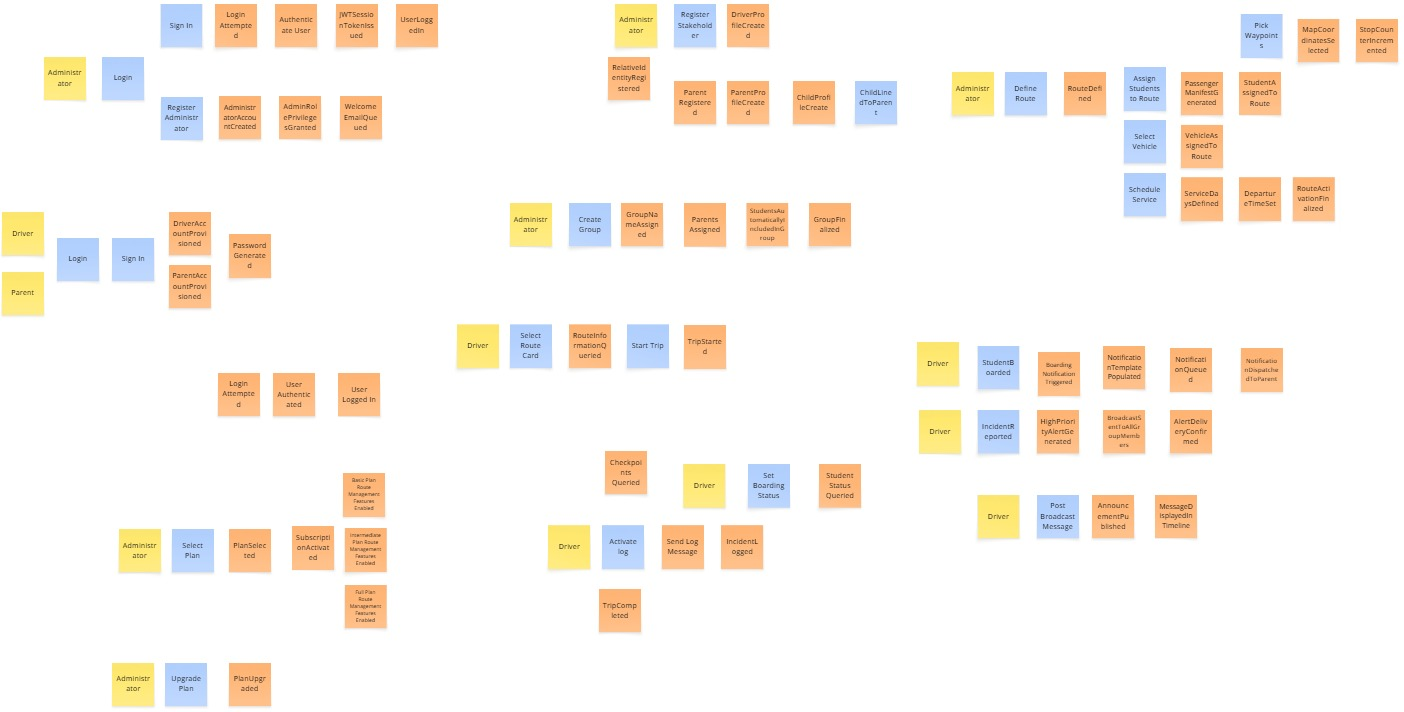
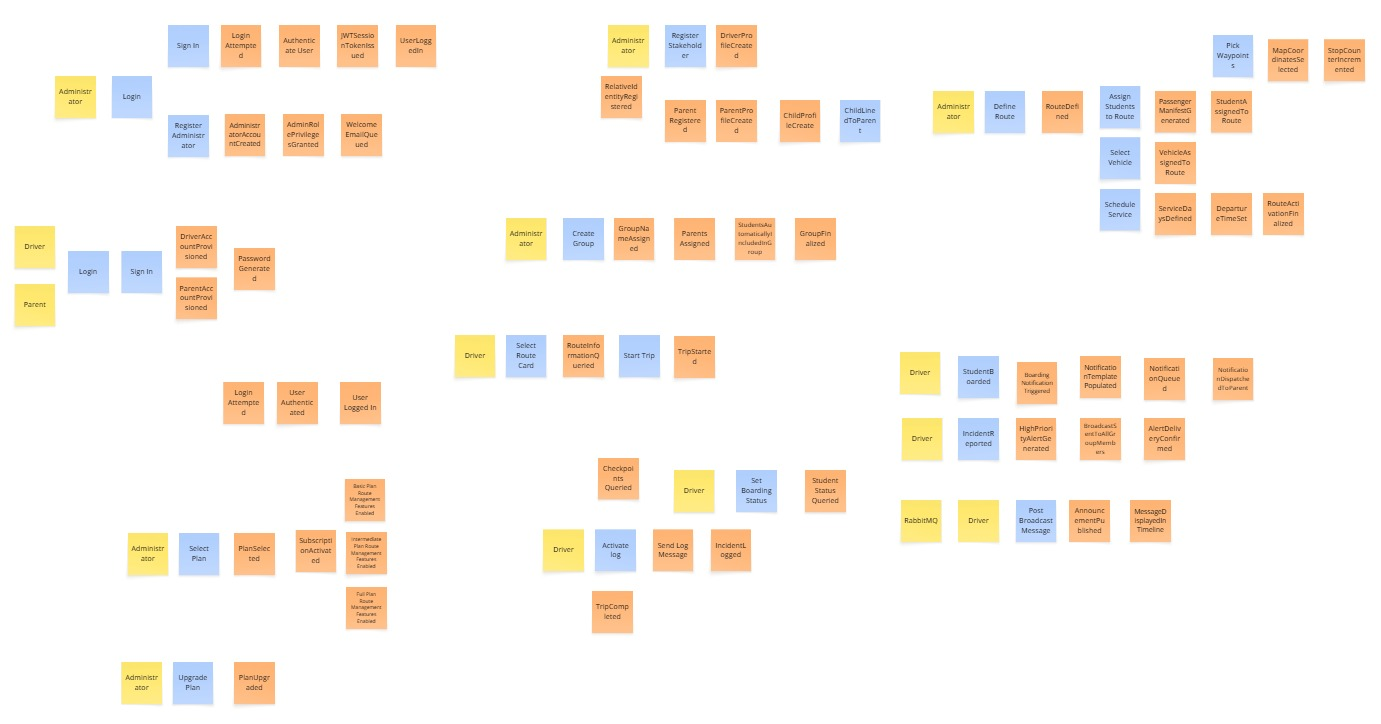
"docs: updated EventStorming section again"

diff --git a/README.md b/README.md
@@ -2627,9 +2627,30 @@ El *Product Backlog* es un artefacto vivo y emergente que centraliza y ordena to
 ## 2.5. Strategic-Level Domain-Driven Design
 
 ### 2.5.1. EventStorming
+ 
+Para el proceso de EventStorming a nivel de diseño utilizamos la herramienta **Miro** y seguimos cuatro pasos hasta llegar a la definición de los Bounded Contexts del sistema.
+ 
+**Paso 1: Identificación de Domain Events.** Trazamos los eventos sobre una línea de tiempo imaginaria de izquierda a derecha, redactados en pasado participio y utilizando el lenguaje ubicuo en inglés. Los eventos se representan con post-it de color anaranjado.
+ 
+**Paso 2: Identificación de Commands.** Sobre cada evento identificamos el comando que lo dispara, es decir, la intención explícita que provoca el hecho. Los comandos se representan con post-it de color azul.
+ 
+**Paso 3: Identificación de Actors.** Determinamos qué actor ejecuta cada comando, distinguiendo los tres roles del ecosistema (Administrador, Conductor y Padre de familia) de los procesos que dispara el propio sistema. Los actores se representan con post-it de color amarillo.
+ 
+**Paso 4: Agrupación en Bounded Contexts.** Finalmente agrupamos los eventos que se relacionan entre sí a través de los agregados y entidades que comparten, delimitando los Bounded Contexts del sistema.
+ 
+A lo largo del tablero utilizamos además cuatro tipos de post-it complementarios para enriquecer el modelo:
+ 
+| Color | Tipo | Descripción |
+|---|---|---|
+| Amarillo pálido | Agregado | Entidad o conjunto de entidades que agrupan el comportamiento y el estado sobre el que actúa un comando. |
+| Rosado | Sistema Externo | Servicio de terceros con el que el sistema se integra (pasarela de pago, proveedor de mapas, proveedor push, broker de mensajería). |
+| Morado | Política | Regla de negocio que conecta automáticamente un evento con el siguiente comando, sin intervención de un actor humano. |
+| Verde | Pantalla | Vista de la aplicación desde la que un actor dispara un comando. |
 
+<img src="resources\chapter-2\EventStorming\paleta-colores.png" width="1000">
+ 
 #### 2.5.1.1. Candidate Context Discovery
-
+ 
 En esta sesión aplicamos la técnica de *Candidate Context Discovery* para identificar y separar los posibles Bounded Contexts del sistema RouteGuard. La sesión se realizó en **Miro** con la participación de los cuatro integrantes del equipo y tuvo una duración de una hora y cuarenta minutos, dentro del límite de dos horas recomendado para esta técnica.
  
 Utilizamos las tres técnicas sugeridas de forma encadenada, ya que cada una responde una pregunta distinta. Con **start-with-simple** descompusimos la línea temporal en tres fases secuenciales —configuración y contratación, operación diaria, y cierre y postventa— para obtener un modelo manejable antes de intentar agrupar. Con **look-for-pivotal-events** identificamos los eventos que marcan cambios de estado entre partes distintas del proceso de negocio, que resultaron ser las costuras naturales del dominio. Finalmente, con **start-with-value** determinamos qué agrupaciones concentran el mayor valor para el negocio, contrastándolas con la propuesta de valor.
@@ -2638,10 +2659,11 @@ Los eventos pivote identificados fueron los siguientes:
  
 | Evento pivote | Cambio de estado que señala |
 |---|---|
-| `RouteActivationFinalized` | La ruta pasa de configuración a disponible para operar; separa la planificación de la ejecución. |
+| `RouteActivationFinalized` | La ruta pasa de configuración a disponible para operar; separa la planificación de la ejecución, y es el evento que directamente dispara `Start Trip` en Trip Execution & Monitoring. |
 | `TripStarted` | El plan de ruta pasa de intención a ejecución; separa la planificación del registro operativo. |
-| `BoardingQueuedOffline` | El registro de abordaje pasa de confirmado a provisional en el dispositivo; marca el punto donde el dominio deja de asumir conectividad continua. |
-| `BoardingSynchronized` | El registro pasa de provisional en el dispositivo a confirmado en el servidor. |
+| `LocationUpdated` | La posición del vehículo pasa de dato crudo transmitido por el dispositivo a telemetría persistida del viaje; abre el flujo de monitoreo en tiempo real y dispara la evaluación de geocerca en Notifications & Communication. |
+| `GeofenceBreached` | La telemetría cruda pasa a ser un hecho accionable: el vehículo penetra el radio de una parada, disparando la alerta hacia el padre. |
+| `GroupFinalized` | El grupo de estudiantes pasa de configuración a disponible para asignar; es el evento que, a través de la política `Export Group Manifest to Route Context`, dispara `Assign Students to Route` en Fleet & Route Management. |
 | `SubscriptionActivated` | El vínculo comercial pasa de solicitud a acceso habilitado; separa la capa comercial de la operativa. |
 | `TripCompleted` | La ejecución pasa a cierre; separa la operación diaria de la postventa. |
  
@@ -2651,205 +2673,48 @@ A continuación se presenta la evolución progresiva del EventStorm durante la s
  
 *Paso 1 — Domain Events:* los eventos trazados sobre la línea temporal, en pasado participio y con el lenguaje ubicuo en inglés.
  
-![Domain Events](resources/chapter-2/EventStorming/Events.jpg)
- 
+<img src="resources\chapter-2\EventStorming\Events.jpg" width="1000">
+
 *Paso 2 — Commands:* sobre cada evento se identificó el comando que lo dispara.
  
-![Commands](resources/chapter-2/EventStorming/Commands.jpg)
- 
+<img src="resources\chapter-2\EventStorming\Commands.jpg" width="1000">
+
 *Paso 3 — Actors:* se determinó qué actor ejecuta cada comando.
  
-![Actors](resources/chapter-2/EventStorming/Actors.jpg)
- 
+<img src="resources\chapter-2\EventStorming\Actors.jpg" width="1000">
+
 *Paso 4 — Agrupación:* aplicando los eventos pivote como líneas de corte, los eventos se agruparon por los agregados que comparten.
  
-![Bounded Context Decomposition](resources/chapter-2/EventStorming/Design-Level-Event-Storming.jpg)
- 
+<img src="resources\chapter-2\EventStorming\Design-Level-Event-Storming.jpg" width="1000">
+
 Este proceso nos llevó a definir los siguientes Bounded Contexts:
  
 | Bounded Context | Descripción | Eventos clave |
 |---|---|---|
-| **Identity & Access Management** | Gestiona el registro, la autenticación y el control de acceso por rol de los usuarios de la plataforma. | User Authenticated, Administrator Account Created, Driver Account Provisioned, Parent Account Provisioned |
-| **Subscription & Plan Management** | Administra los planes SaaS, procesa el cobro y habilita el acceso comercial a la plataforma. | Plan Selected, Payment Confirmed, Subscription Activated, Plan Upgraded, Quotas Increased |
-| **Fleet & Route Management** | Custodia el plan de recorrido vigente: paradas, vehículo, conductor y programación de servicio de cada ruta. | Route Defined, Waypoint Selected, Vehicle Assigned To Route, Service Days Defined, Route Activation Finalized |
-| **Stakeholder & Asset Management** | Registra a conductores y padres de familia, vincula estudiantes y organiza los grupos por ruta. | Driver Profile Created, Parent Profile Created, Child Linked To Parent, Group Finalized |
-| **Trip Execution & Monitoring** | Registra la ejecución real del viaje diario, incluyendo el registro de abordaje con soporte de sincronización *offline*. | Trip Started, Boarding Opened, Student Boarded, Boarding Queued Offline, Boarding Synchronized, Incident Reported, Trip Completed |
-| **Notifications & Communication** | Traduce los eventos del dominio en notificaciones para los padres de familia, incluyendo alertas de alta prioridad y avisos del conductor. | Notification Dispatched, Panic Alert Triggered, Announcement Published |
+| **Identity & Access Management** | Gestiona el registro, la autenticación y el control de acceso por rol de los usuarios de la plataforma. | Login Accepted, User Authenticated, JWT Session Token Issued, User Logged In, Administrator Account Created, Admin Role Privileges Granted, Driver Account Provisioned, Parent Account Provisioned, Password Generated |
+| **Subscription & Plan Management** | Administra los planes SaaS, procesa el cobro a través de la pasarela de pago y habilita el acceso comercial a la plataforma. | Plan Selected, Payment Confirmed, Subscription Activated, Plan Features Enabled, Plan Upgraded, Quotas Increased |
+| **Fleet & Route Management** | Custodia el plan de recorrido vigente: paradas, vehículo, conductor y programación de servicio de cada ruta. | Route Defined, Waypoint Selected, Stop Count Updated, Student Assigned To Route, Passenger Manifest Generated, Vehicle Assigned To Route, Service Days Defined, Route Activation Finalized |
+| **Stakeholder & Asset Management** | Registra a conductores y padres de familia, vincula estudiantes y organiza los grupos por ruta. | Driver Profile Created, Parent Profile Created, Child Profile Created, Child Linked To Parent, Group Name Assigned, Parents Assigned To Group, Students Included In Group, Group Finalized |
+| **Trip Execution & Monitoring** | Registra la ejecución real del viaje diario, incluyendo el registro de abordaje con soporte *offline* (US-06/TS-02), y la transmisión de la ubicación GPS en tiempo real del vehículo. | Trip Started, Boarding Opened, Student Boarded, Student Dropped Off, Location Updated, Incident Reported, Trip Completed, Trip Archived |
+| **Notifications & Communication** | Consume los eventos del viaje, evalúa la penetración de geocercas y traduce los eventos del dominio en notificaciones push para los padres de familia. | Notification Created, Notification Queued, Notification Dispatched, High Priority Alert Created, Geofence Breached, Announcement Published, Notification Sent |
  
-Aplicando finalmente *start-with-value*, clasificamos los contextos según su aporte estratégico. **Trip Execution & Monitoring** constituye el *Core Domain*: es el contexto donde RouteGuard concentra su ventaja competitiva, al garantizar que ningún registro de abordaje se pierda incluso sin conectividad. **Fleet & Route Management**, **Stakeholder & Asset Management** y **Notifications & Communication** son *Supporting Subdomains*: indispensables para el negocio pero no diferenciadores; Notifications & Communication se extiende sobre el contexto heredado con la integración de un proveedor de mensajería push (FCM), para que los eventos del viaje lleguen al dispositivo del padre sin que este tenga que abrir la app. **Identity & Access Management** y **Subscription & Plan Management** son *Generic Subdomains*, problemas ya resueltos por la industria en los que se prioriza la reutilización.
+Aplicando finalmente *start-with-value*, clasificamos los contextos según su aporte estratégico. **Trip Execution & Monitoring** constituye el *Core Domain*: es el contexto donde RouteGuard concentra su ventaja competitiva, al garantizar tanto el registro de abordaje sin pérdida de datos ante la falta de conectividad como el monitoreo en tiempo real del trayecto. **Fleet & Route Management**, **Stakeholder & Asset Management** y **Notifications & Communication** son *Supporting Subdomains*: indispensables para el negocio pero no diferenciadores. **Identity & Access Management** y **Subscription & Plan Management** son *Generic Subdomains*, problemas ya resueltos por la industria en los que se prioriza la reutilización.
  
-La capacidad que distingue a RouteGuard es la resiliencia ante la falta de conectividad dentro de Trip Execution & Monitoring, y es ahí donde se concentra el esfuerzo de diseño táctico en las siguientes secciones.
-
-#### 2.5.1.2. Domain Message Flows Modeling
-
-El *Domain Message Flow Modelling* es una técnica que permite representar cómo fluyen los mensajes de dominio —*commands*, *events* y *queries*— entre los distintos Bounded Contexts del sistema. Su propósito es clarificar las interacciones, dependencias y responsabilidades de cada contexto al resolver un caso concreto del negocio.
+La capacidad que distingue a RouteGuard es la combinación de resiliencia ante la falta de conectividad con monitoreo en tiempo real dentro de Trip Execution & Monitoring, y es ahí donde se concentra el mayor esfuerzo de diseño táctico en las siguientes secciones.
  
-Para cada escenario se documenta la secuencia numerada de mensajes, que es la que se representa en el diagrama: los comandos en azul, los eventos en naranja y las consultas en verde, con los contextos dibujados como nubes y los actores como participantes externos.
+**Conexiones confirmadas entre Bounded Contexts**
  
-**Escenario 01: Conformación del grupo de estudiantes y asignación a la ruta**
+| # | Origen | Evento | Política | Destino | Comando / Evento |
+|---|---|---|---|---|---|
+| 1 | Stakeholder & Asset Management | `Group Finalized` | `Export Group Manifest to Route Context` | Fleet & Route Management | `Assign Students to Route` |
+| 2 | Fleet & Route Management | `Route Activation Finalized` | — | Trip Execution & Monitoring | `Start Trip` |
+| 3 | Trip Execution & Monitoring | `Student Boarded` | — | Notifications & Communication | `Student Boarded` (consumido) |
+| 4 | Trip Execution & Monitoring | `Incident Reported` | — | Notifications & Communication | `Incident Reported` (consumido) |
+| 5 | Trip Execution & Monitoring | `Location Updated` | *(evaluación de geocerca)* | Notifications & Communication | `Geofence Breached` |
  
-| # | Tipo | Mensaje | Origen | Destino |
-|---|---|---|---|---|
-| 1 | Command | Crear grupo de estudiantes | Administrador | Stakeholder & Asset Management |
-| 2 | Command | Asignar padres e incluir hijos vinculados al grupo | Administrador | Stakeholder & Asset Management |
-| 3 | Command | Finalizar grupo | Administrador | Stakeholder & Asset Management |
-| 4 | Event | Group Finalized | Stakeholder & Asset Management | Stakeholder & Asset Management |
-| 5 | Query | Exportar manifiesto del grupo al contexto de ruta | Stakeholder & Asset Management | Fleet & Route Management |
-| 6 | Command | Asignar estudiantes a la ruta | Administrador | Fleet & Route Management |
-| 7 | Event | Passenger Manifest Generated | Fleet & Route Management | Fleet & Route Management |
+**Identity & Access Management** se conecta de forma transversal con los cinco contextos restantes a través de `User Authenticated`/`JWT Session Token Issued`, pero esta no es una política de negocio sino una dependencia de identidad.
  
-![Escenario 01: Conformación de grupo y asignación a ruta](resources/chapter-2/Domain-Message-Flows/escenario-01-grupo-ruta.png)
- 
-La nómina de estudiantes que puede asignarse a una ruta proviene del grupo ya finalizado en Stakeholder & Asset Management, consultado en el paso 5.
- 
-**Escenario 02: Ejecución del viaje con abordaje offline y notificación**
- 
-| # | Tipo | Mensaje | Origen | Destino |
-|---|---|---|---|---|
-| 1 | Command | Iniciar viaje | Conductor | Trip Execution & Monitoring |
-| 2 | Event | Trip Started | Trip Execution & Monitoring | Trip Execution & Monitoring |
-| 3 | Command | Marcar estado de abordaje | Conductor | Trip Execution & Monitoring |
-| 4a | Event | Student Boarded (con señal) | Trip Execution & Monitoring | Notifications & Communication |
-| 4b | Event | Boarding Queued Offline (sin señal) | Trip Execution & Monitoring | Almacenamiento local |
-| 5 | Command | Sincronizar cola de abordaje | App del conductor | Trip Execution & Monitoring |
-| 6 | Event | Boarding Synchronized | Trip Execution & Monitoring | Notifications & Communication |
-| 7 | Command | Despachar notificación push | Notifications & Communication | Proveedor push (FCM) |
-| 8 | Event | Notification Dispatched | Proveedor push (FCM) | Padre de familia |
- 
-![Escenario 02: Abordaje offline y notificación](resources/chapter-2/Domain-Message-Flows/escenario-02-abordaje-offline.png)
- 
-La bifurcación entre los pasos 4a y 4b concentra la lógica central de resiliencia de RouteGuard. El paso 6 conserva el *timestamp* original del dispositivo, no el de la sincronización, para que la notificación al padre refleje la hora real del abordaje y no la hora en que el sistema recuperó conectividad. El paso 7 delega la entrega al proveedor push, de modo que el padre recibe el aviso en su dispositivo sin necesidad de tener la app abierta.
- 
-**Escenario 03: Incidencia y alerta de alta prioridad**
- 
-| # | Tipo | Mensaje | Origen | Destino |
-|---|---|---|---|---|
-| 1 | Command | Reportar incidencia | Conductor | Trip Execution & Monitoring |
-| 2 | Event | Incident Reported | Trip Execution & Monitoring | Notifications & Communication |
-| 3 | Command | Disparar alerta de alta prioridad | Notifications & Communication | Notifications & Communication |
-| 4 | Event | Panic Alert Triggered | Notifications & Communication | Notifications & Communication |
-| 5 | Command | Difundir alerta a los padres del viaje | Notifications & Communication | Proveedor push (FCM) |
-| 6 | Event | Notification Sent | Proveedor push (FCM) | Padres de estudiantes a bordo |
- 
-![Escenario 03: Incidencia y alerta de alta prioridad](resources/chapter-2/Domain-Message-Flows/escenario-03-incidencia-alerta.png)
- 
-Notifications & Communication concentra tanto la traducción del evento como la decisión de prioridad, delegando únicamente la entrega final al proveedor push, sin requerir que Trip Execution & Monitoring conozca la lógica de despacho.
-
-#### 2.5.1.3. Bounded Context Canvases
- 
-El *Bounded Context Canvas* permite representar de forma clara los límites, responsabilidades e interacciones de cada contexto dentro de un sistema complejo, facilitando que el equipo construya una visión compartida sobre su propósito, sus agregados y las reglas de negocio que lo gobiernan. El equipo utilizó la plantilla oficial *Bounded Context Canvas v4* de ddd-crew, siguiendo el proceso iterativo de seis pasos que la técnica establece: **Context Overview Definition**, **Business Rules Distillation & Ubiquitous Language Capture**, **Capability Analysis**, **Capability Layering** (donde aplica), **Dependencies Capture** y **Design Critique**. Los seis canvases se trabajaron en el orden de importancia definido en 2.5.1.1, comenzando por el Core Domain.
- 
-**Canvas 1: Trip Execution & Monitoring**
- 
-![Trip Execution and Monitoring Bounded Context Canvas](resources/chapter-2/Bounded-Context-Canvas/The-Bounded-Context-Canvas-Trip.jpg)
- 
-| Campo | Contenido |
-|---|---|
-| **Name** | Trip Execution & Monitoring |
-| **Description** | Registra la ejecución real del viaje diario del conductor, incluyendo el registro de abordaje con soporte de sincronización *offline* para zonas sin cobertura. |
-| **Strategic Classification** | Domain: core · Business Model: revenue generator · Evolution: custom built |
-| **Domain Roles** | Execution Context |
-| **Inbound Communication** | *Commands:* Select Route Card, Start Trip, Open Boarding, Set Boarding Status, Sync Offline Queue, Report Incident, Complete Trip, Archive Trip. *Events:* Trip Started, Boarding Opened, Student Boarded, Boarding Queued Offline, Boarding Synchronized, Incident Reported, Trip Completed, Trip Archived |
-| **Ubiquitous Language** | **Trip:** ejecución física de una ruta en una fecha y hora específica. **Boarding:** acto en que un estudiante ingresa o desciende del vehículo. **Offline Queue:** registro de abordaje guardado localmente cuando el dispositivo no tiene señal. **Incident:** evento inesperado que altera el curso normal del viaje. |
-| **Business Decisions** | Un viaje inicia con el estado "Boarding Opened" antes de aceptar registros de abordaje. Un registro sin señal se guarda localmente con el *timestamp* del dispositivo, sin bloquear la operación. La sincronización es idempotente por `(tripId, studentId)`: un reintento posterior a la confirmación no genera un registro duplicado. Un viaje completado se archiva y deja de aceptar nuevos registros. |
-| **Outbound Communication** | *Messages:* Notificar abordaje al padre, Notificar incidencia. *Collaborators:* Notifications & Communication |
- 
-**Canvas 2: Fleet & Route Management**
- 
-![Fleet and Route Management Bounded Context Canvas](resources/chapter-2/Bounded-Context-Canvas/The-Bounded-Context-Canvas-Fleet.jpg)
- 
-| Campo | Contenido |
-|---|---|
-| **Name** | Fleet & Route Management |
-| **Description** | Custodia el plan de recorrido vigente de cada ruta escolar: secuencia de paradas, vehículo y conductor asignados, días de servicio y hora de salida. |
-| **Strategic Classification** | Domain: supporting · Business Model: engagement · Evolution: custom built |
-| **Domain Roles** | Specification Context |
-| **Inbound Communication** | *Commands:* Define Route, Pick Waypoints, Assign Students To Route, Select Vehicle, Define Service Days, Set Departure Time. *Events:* Route Defined, Waypoint Selected, Stop Count Updated, Passenger Manifest Generated, Vehicle Assigned To Route, Service Days Defined, Route Activation Finalized, Student Assigned To Route, Student Absence Notified, Vehicle Marked Unfit For Operation |
-| **Ubiquitous Language** | **Route:** secuencia predefinida de paradas entre un origen y un colegio. **Stop:** ubicación geográfica donde un estudiante sube o baja del vehículo. **Passenger Manifest:** listado de estudiantes asignados a una ruta. **Service Days:** días de la semana en que la ruta opera. |
-| **Business Decisions** | Una ruta no puede activarse sin vehículo y conductor asignados. El conteo de paradas se recalcula automáticamente al agregar o quitar un *waypoint*. Los estudiantes asignables a una ruta provienen del manifiesto ya finalizado en Stakeholder & Asset Management. |
-| **Outbound Communication** | *Messages:* Entregar plan de ruta vigente. *Collaborators:* Trip Execution & Monitoring |
- 
-**Canvas 3: Stakeholder & Asset Management**
- 
-![Stakeholder and Asset Management Bounded Context Canvas](resources/chapter-2/Bounded-Context-Canvas/The-Bounded-Context-Canvas-StakeHolder.jpg)
- 
-| Campo | Contenido |
-|---|---|
-| **Name** | Stakeholder & Asset Management |
-| **Description** | Registra a conductores y padres de familia, vincula estudiantes a sus padres y organiza los grupos de estudiantes que luego se asignan a una ruta. |
-| **Strategic Classification** | Domain: supporting · Business Model: engagement · Evolution: custom built |
-| **Domain Roles** | Registry Context |
-| **Inbound Communication** | *Commands:* Register Driver, Register Parent, Register Child, Link Child To Parent, Create Group, Assign Parents To Group, Include Linked Students, Finalize Group. *Events:* Driver Profile Created, Parent Profile Created, Child Profile Created, Child Linked To Parent, Group Name Assigned, Parents Assigned To Group, Students Included In Group, Group Finalized |
-| **Ubiquitous Language** | **Driver:** persona registrada que opera una unidad de transporte. **Parent:** persona registrada responsable de uno o más estudiantes. **Group:** conjunto de estudiantes vinculados a los padres asignados, previo a su incorporación a una ruta. |
-| **Business Decisions** | Un estudiante solo puede vincularse a un padre ya registrado. Un grupo no puede finalizarse sin al menos un padre y sus estudiantes incluidos. Una vez finalizado, el grupo genera el manifiesto que Fleet & Route Management consume. |
-| **Outbound Communication** | *Messages:* Exportar manifiesto del grupo. *Collaborators:* Fleet & Route Management |
- 
-**Canvas 4: Notifications & Communication**
- 
-![Notifications and Communication Bounded Context Canvas](resources/chapter-2/Bounded-Context-Canvas/The-Bounded-Context-Canvas-Notifications.jpg)
- 
-| Campo | Contenido |
-|---|---|
-| **Name** | Notifications & Communication |
-| **Description** | Traduce los eventos relevantes del viaje en notificaciones push para los padres de familia, entregadas directamente en su dispositivo sin necesidad de abrir la app, incluyendo alertas de alta prioridad ante incidencias y anuncios difundidos por el conductor. |
-| **Strategic Classification** | Domain: supporting · Business Model: engagement · Evolution: custom built sobre proveedor push de terceros |
-| **Domain Roles** | Dispatch Context |
-| **Inbound Communication** | *Commands:* Prepare Boarding Notification, Trigger Panic Alert, Post Broadcast Message, Retry Notification, Register Device Token. *Events:* Student Boarded, Incident Reported, Notification Created, Notification Queued, Notification Dispatched, Panic Alert Triggered, Announcement Published, Notification Delivered, Notification Failed |
-| **Ubiquitous Language** | **Notification:** mensaje push entregado al dispositivo del padre de familia ante un evento del viaje. **Panic Alert:** notificación de alta prioridad originada por una incidencia. **Broadcast:** anuncio del conductor distribuido a todos los padres de su ruta. **Device Token:** identificador del dispositivo del padre ante el proveedor de mensajería, registrado al iniciar sesión. |
-| **Business Decisions** | Toda notificación pasa por un estado de cola antes de despacharse al proveedor push. Una notificación fallida se reintenta automáticamente; si el reintento también falla, queda registrada como no entregada. Una alerta de pánico se trata con prioridad distinta a una notificación de abordaje ordinaria. Sin un *device token* vigente, la notificación se registra en el log sin intento de envío. |
-| **Outbound Communication** | *Messages:* Despachar notificación push. *Collaborators:* Proveedor push (FCM) |
- 
-**Canvas 5: Identity & Access Management**
- 
-![Identity and Access Management Bounded Context Canvas](resources/chapter-2/Bounded-Context-Canvas/The-Bounded-Context-Canvas-IAM.jpg)
- 
-| Campo | Contenido |
-|---|---|
-| **Name** | Identity & Access Management |
-| **Description** | Gestiona el registro, la autenticación y el control de acceso de los usuarios de la plataforma, resolviendo el rol activo que determina las funcionalidades visibles para cada perfil. |
-| **Strategic Classification** | Domain: generic · Business Model: compliance enforcement · Evolution: product |
-| **Domain Roles** | Gateway Context |
-| **Inbound Communication** | *Commands:* Sign In, Register Administrator, Generate Session Token, Generate Password. *Events:* User Authenticated, Administrator Account Created, Driver Account Provisioned, Parent Account Provisioned, JWT Session Token Issued, Password Generated |
-| **Ubiquitous Language** | **Account:** identidad única de un usuario en la plataforma. **Session Token:** credencial temporal emitida tras una autenticación válida. **Role:** perfil activo (Administrador, Conductor, Padre) que determina las funcionalidades visibles. |
-| **Business Decisions** | Un usuario debe estar registrado para acceder a la plataforma. Las cuentas de conductor y padre se provisionan con credenciales generadas automáticamente al momento del registro por el administrador. Al iniciar sesión desde la app del padre, el dispositivo registra su *device token* para que Notifications & Communication pueda despachar notificaciones push. |
-| **Outbound Communication** | *Messages:* Entregar identidad y rol por token. *Collaborators:* Todos los Bounded Contexts |
- 
-**Canvas 6: Subscription & Plan Management**
- 
-![Subscription and Plan Management Bounded Context Canvas](resources/chapter-2/Bounded-Context-Canvas/The-Bounded-Context-Canvas-Suscription.jpg)
- 
-| Campo | Contenido |
-|---|---|
-| **Name** | Subscription & Plan Management |
-| **Description** | Administra los planes Básico, Intermedio y Completo, procesa el cobro a través de la pasarela de pago y habilita el acceso comercial a la plataforma según el plan vigente del administrador. |
-| **Strategic Classification** | Domain: generic · Business Model: revenue generator · Evolution: product |
-| **Domain Roles** | Gateway Context |
-| **Inbound Communication** | *Commands:* Select Plan, Initiate Payment Process, Upgrade Plan. *Events:* Plan Selected, Payment Confirmed, Subscription Activated, Plan Features Enabled, Plan Upgraded, Quotas Increased |
-| **Ubiquitous Language** | **Subscription:** vínculo comercial vigente entre el administrador y la plataforma. **Plan:** nivel de servicio contratado, con límites propios de unidades gestionables. **Quota:** número máximo de rutas y conductores habilitados por el plan. |
-| **Business Decisions** | La suscripción se activa solo tras la confirmación de pago de la pasarela externa. Una mejora de plan incrementa las cuotas de ruta y conductor sin interrumpir el servicio vigente. |
-| **Outbound Communication** | *Messages:* Solicitar procesamiento de pago, Entregar límites del plan activo. *Collaborators:* Pasarela de pago |
-
-### 2.5.2. Context Mapping
-
-El *Context Map* (Mapa de Contextos) establece las fronteras de nuestros Bounded Contexts y define explícitamente los patrones de integración y comunicación entre ellos, evitando que los modelos de dominio se contaminen entre sí. 
-
-Durante las sesiones de diseño, se respondieron algunas dudas para validar la robustez y definir las relaciones de los contextos:
-
-- **¿Qué pasaría si Fleet & Route Management consultara directamente las entidades internas de Stakeholder & Asset Management para armar el manifiesto de pasajeros?**
-Se descartó. El manifiesto de una ruta solo necesita saber qué estudiantes pertenecen a un grupo ya finalizado, no la estructura completa de padres, vínculos y perfiles que administra Stakeholder & Asset Management. Exponer esa consulta como un **Open Host Service** con un **Published Language** propio —el manifiesto exportado— evita que un cambio futuro en cómo Stakeholder modela a un padre o un vínculo familiar obligue a modificar Fleet & Route Management.
- 
-- **¿Qué pasaría si Trip Execution & Monitoring dependiera del modelo interno de Notifications & Communication para saber cómo se construye una notificación?**
-Se descartó. Trip Execution & Monitoring solo necesita informar *qué ocurrió* —un abordaje, una incidencia—; la lógica de cola, reintento y prioridad de Notifications & Communication es una responsabilidad que no le compete. La relación se modela como **Customer/Supplier**, con Trip Execution & Monitoring como cliente aguas arriba: es el evento del viaje el que dispara la notificación, nunca al revés.
- 
-- **¿Qué pasaría si aislamos Identity & Access Management y Subscription & Plan Management del resto del sistema?**
-Al ser ambos *Generic Subdomain*, el resto de los contextos los consume tal como están, sin invertir esfuerzo en adaptarlos a las particularidades de RouteGuard. Esto corresponde al patrón **Conformist**: el costo de adaptarse es menor que el de mantener una traducción para un contexto que no evoluciona según las necesidades propias de RouteGuard.
- 
-- **¿Qué pasaría si duplicáramos el manifiesto de pasajeros dentro de Trip Execution & Monitoring para no depender de Fleet & Route Management en tiempo real?**
-Se descartó. El manifiesto puede cambiar entre la planificación de la ruta y la ejecución del viaje —una reasignación de última hora, por ejemplo—, y duplicarlo arriesgaría a que el conductor opere con una lista desactualizada. Se mantiene la relación **Customer/Supplier**, con Fleet & Route Management como proveedor autoritativo del plan vigente.
- 
-**Diagramas de Context Mapping**
- 
-![Context Mapping RouteGuard](resources/chapter-2/ContextMapping.jpg)
+**Subscription & Plan Management** no tiene ninguna conexión hacia otro Bounded Context: su único vínculo externo es con la pasarela de pago (Payment Gateway), un sistema externo. Ningún otro contexto consulta sus cuotas o límites en tiempo real.
 
 ### 2.5.3. Software Architecture
 
